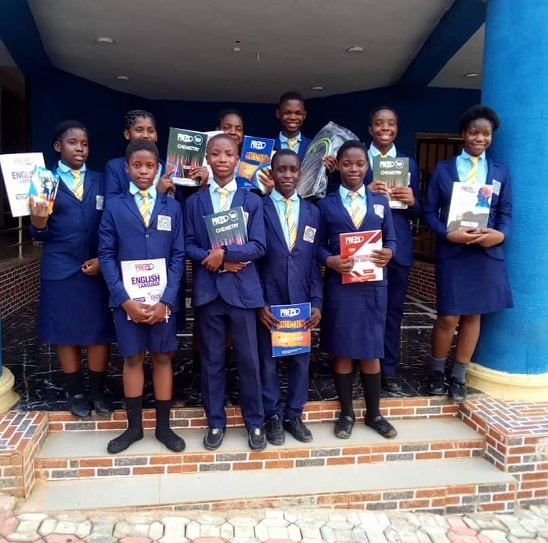
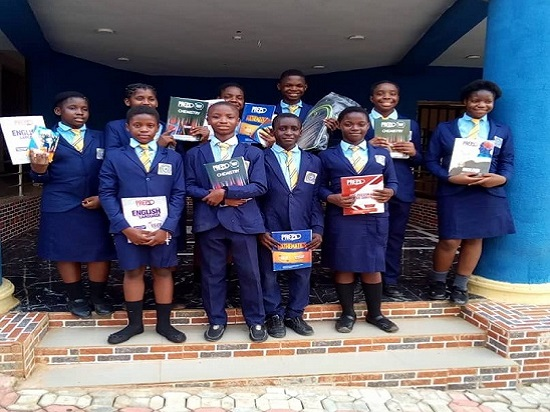
resize the view

diff --git a/index.php b/index.php
@@ -136,7 +136,7 @@
         </div>
         <div class="row">
             
-            <div class="blue lighten-5 col s12 m1 l12">
+            <div class="blue lighten-5 col s12 m12 l12">
                 
                 <div class="card">
                     <div class="card-content">
@@ -147,7 +147,7 @@
                         <p>We will share with you a previously held secret method for exam preparation, used only by one of the Maltina Teacher of the year to prepare her students for guaranteed success.</p>
                         <div class="row">
                             <div class="col s6">
-                                <img class="responsive-img" style="height: 320px; width: 100%;" src="img/ckc.jpg" />
+                                <img class="responsive-img" src="img/ckc.jpg" />
                             </div>
                             <div class="col s6">
                                 <img class="responsive-img" src="img/sch.jpg" />
